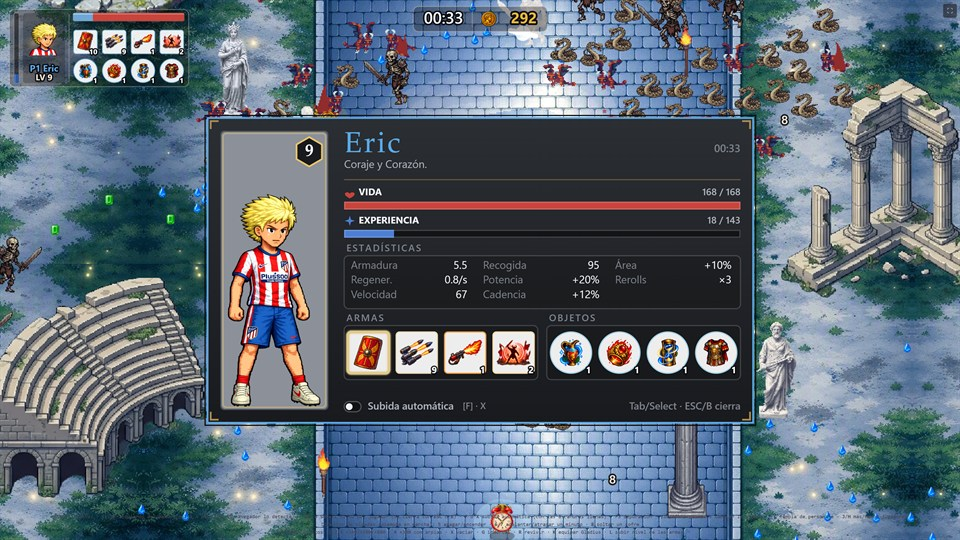
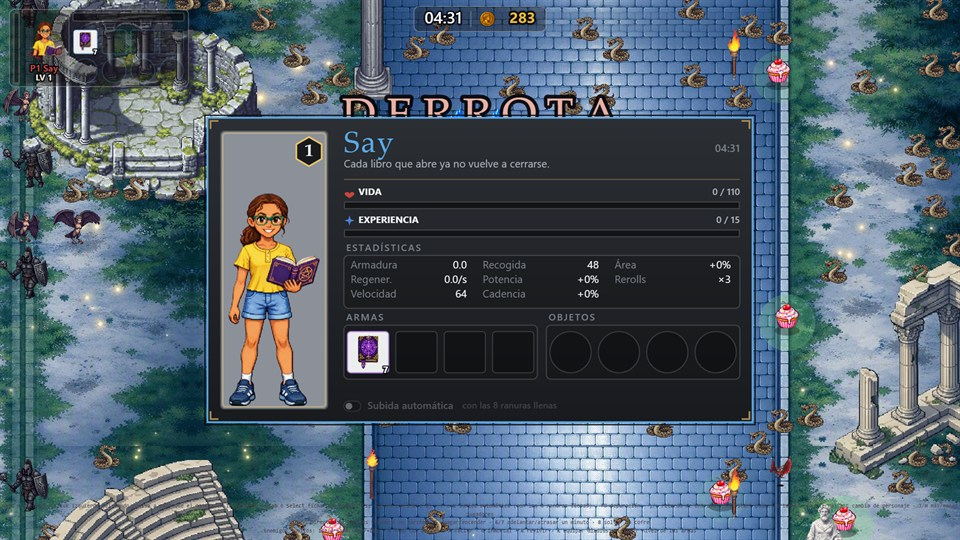
Las capturas del README, rehechas con el juego de hoy y dos pantallas más
Las diez que había eran de agosto y enseñaban un juego que ya no existe:
cuatro héroes en vez de ocho, Say con los Satélites, Sofi con la honda, la
tienda con la mitad de las filas y ni rastro de elegir nivel ni de la placa
que cuenta la historia del sitio. Un README con capturas viejas no es un
README desactualizado: es uno que miente sobre lo que te vas a encontrar.

Se han sacado del juego corriendo de verdad, a 1920x1080, y bajadas a 960 con
`montar-galeria.ps1 -Capturas`, que es lo de siempre. Las de partida no son un
fotograma cualquiera: se deja correr la simulación hasta el minuto cuatro y
medio atendiendo las cartas de subida de nivel por el camino, porque si no el
mundo se queda congelado con el menú abierto y la captura sale con la partida
tapada. Salen 148 enemigos en la de un jugador y 156 en la de cuatro.

Dos son nuevas: elegir nivel —con la región entera y los cinco sitios que
faltan en «próximamente»— y la historia del nivel. Tienen su propia sección,
porque son un paso del recorrido que antes no estaba.

Y la frase de Say seguía siendo la de los Satélites: "Que giren ellas. Yo
miro." Con el Códice Infernal ya no dice lo que hace, dice lo que hacía el
arma que le quitamos. Se veía en la ficha, que es una de las capturas.

Claude-Session: https://claude.ai/code/session_016RbRENmcz8mnG6uoihvh4d

diff --git a/js/datos/personajes.js b/js/datos/personajes.js
@@ -114,7 +114,7 @@ export const PERSONAJES = {
   say: {
     nombre: 'Say',
     sprite: 'say',
-    descripcion: 'Que giren ellas. Yo miro.',
+    descripcion: 'Cada libro que abre ya no vuelve a cerrarse.',
     // Códice Infernal: un libro orbitando al empezar y diez al nivel 10, cada
     // vez más rápidos. Se juega colocándose, no disparando, y con la recogida
     // alta para que el nivel llegue sin tener que ir a por las gemas — que en

diff --git a/README.md b/README.md
@@ -79,9 +79,11 @@ release. Con `-Zip` sale además el comprimido listo para enviar (200 MB).
 ## Al arrancar
 
 Dos pantallas antes del menú. La primera es la ficha del proyecto —con qué está
-hecho, la licencia y el aviso de que se ha usado IA—, y la segunda cuenta de
-dónde sale la horda, con el texto subiendo por el hueco de una placa de piedra
-que lleva la bandera de Extremadura envolviéndola.
+hecho, la licencia y el aviso de que se ha usado IA—, y la segunda **presenta el
+juego**: dónde pasa, qué se ha despertado, qué hay y qué se te pide, con el
+texto subiendo por el hueco de una placa de piedra que lleva la bandera de
+Extremadura envolviéndola. La historia de cada sitio no va aquí: se cuenta al
+elegirlo, justo antes de jugarlo.
 
 Las dos se pasan sin esperar: `Start`, `Esc` o `Enter` van a la siguiente, y
 **manteniendo `A`** se salta la intro entera de una vez. Los dos atajos salen
@@ -207,6 +209,25 @@ Se compran una vez con denarios y se quedan desbloqueadas para siempre.
 
 ---
 
+## Elegir dónde se juega
+
+Lo último antes de empezar, cuando ya se ha decidido con quién. La pantalla
+enseña **la región entera**: Emerita Augusta arriba y, debajo, los cinco sitios
+que quedan por escribir —Cáceres, Trujillo, Monfragüe, Guadalupe y Alcántara—
+apagados y con «próximamente». Un mapa que solo muestra donde ya puedes ir no es
+un mapa. Cada nivel se abre al **ganar** en el anterior: morir en el minuto 28
+no abre nada.
+
+![Elegir nivel](docs/capturas/menu_seleccion_nivel.jpg)
+
+Y elegido el sitio, **su historia** sube por la misma placa de piedra antes del
+primer fotograma. Cada nivel cuenta la suya y vive en su propio archivo de
+datos; se salta con cualquier tecla, como la intro.
+
+![Historia del nivel](docs/capturas/historia_nivel.jpg)
+
+---
+
 ## La ficha
 
 En cualquier momento de la partida, `Tab` abre la ficha del jugador: vida,
@@ -284,7 +305,7 @@ Tres secciones:
 <tr>
 <td width="33%"><img src="docs/capturas/tienda_potenciadores.jpg" alt="Potenciadores"><p align="center"><b>Potenciadores</b><br><sub>mejoras permanentes</sub></p></td>
 <td width="33%"><img src="docs/capturas/tienda_mascotas.jpg" alt="Mascotas"><p align="center"><b>Mascotas</b><br><sub>se desbloquean</sub></p></td>
-<td width="33%"><img src="docs/capturas/tienda_jugadores.jpg" alt="Jugadores"><p align="center"><b>Jugadores</b><br><sub>los cuatro, gratis</sub></p></td>
+<td width="33%"><img src="docs/capturas/tienda_jugadores.jpg" alt="Jugadores"><p align="center"><b>Jugadores</b><br><sub>ocho, cuatro gratis</sub></p></td>
 </tr>
 </table>
 
